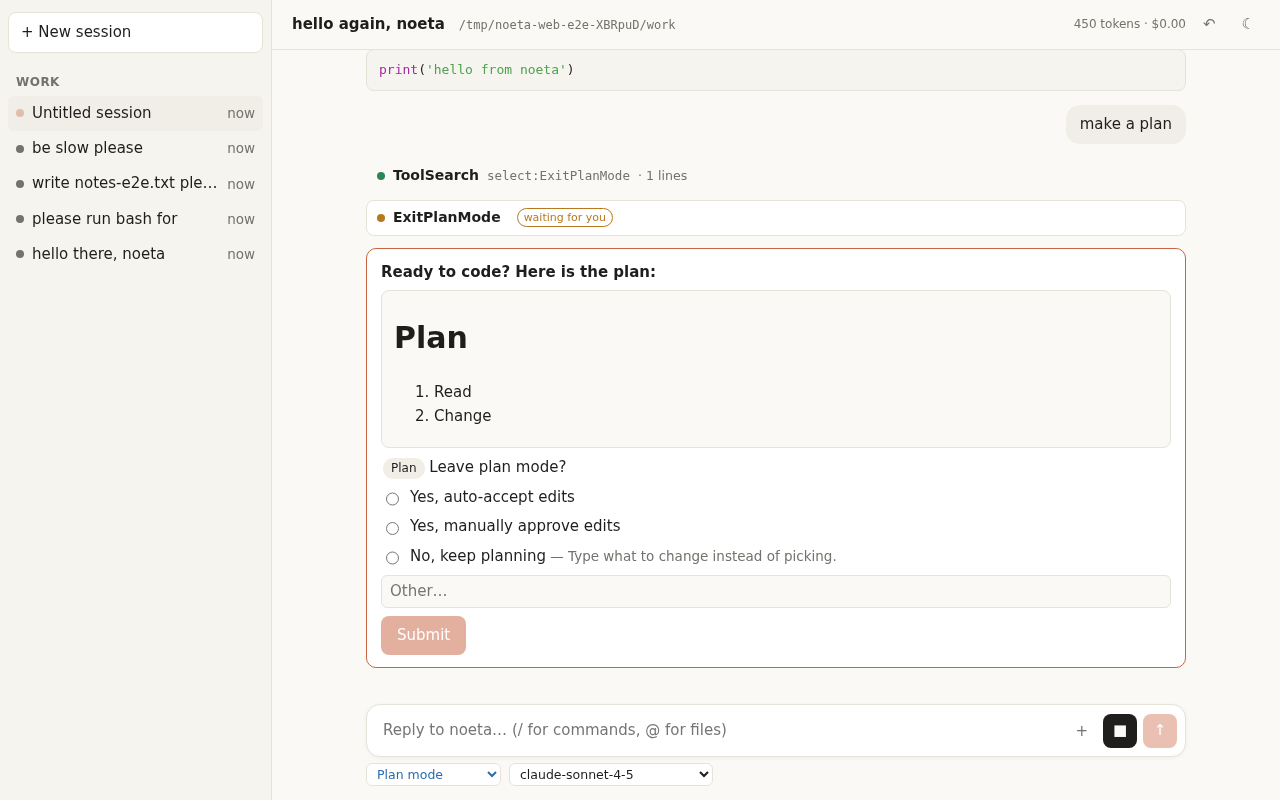
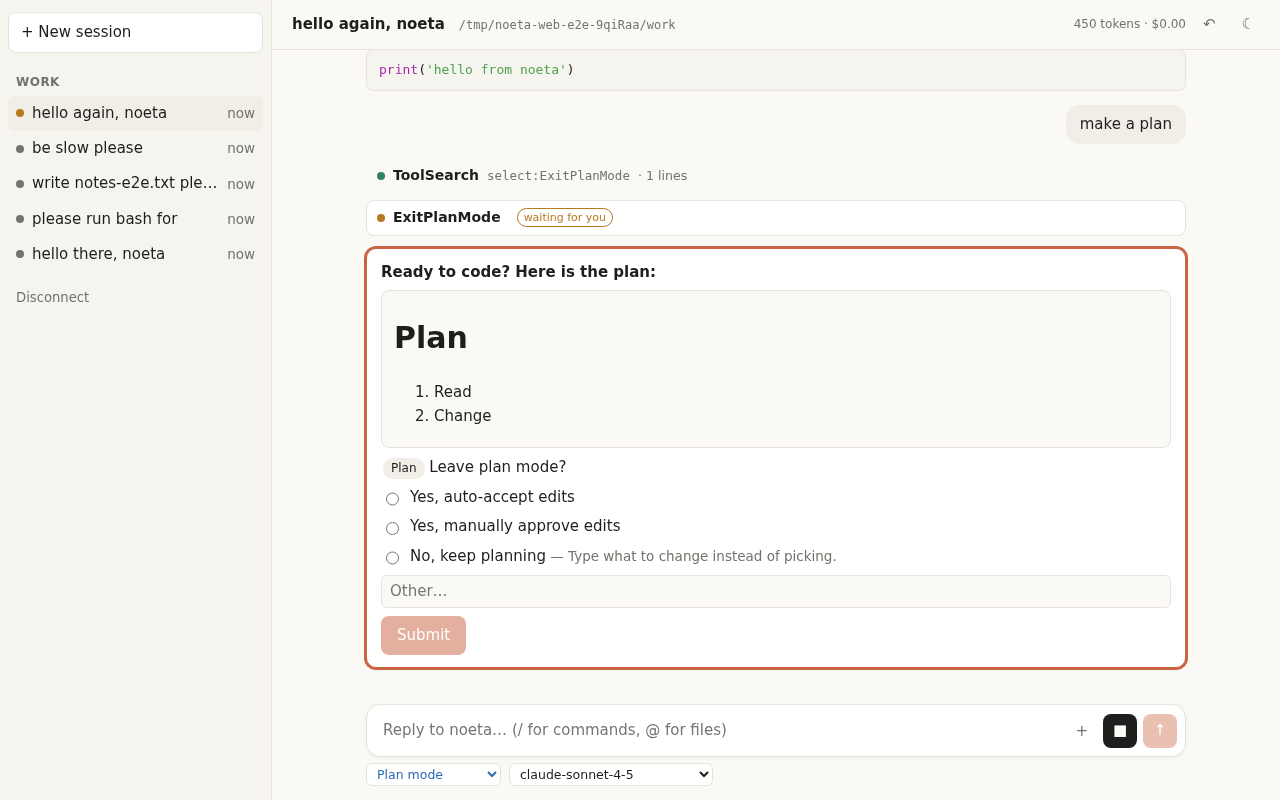
Screenshots of the reviewed web and desktop UI; spec progress
Also: the error page names Reload before the server's output; an App test
for Disconnect.

diff --git a/web/src/desktop.test.tsx b/web/src/desktop.test.tsx
@@ -98,6 +98,15 @@ describe("the app inside the desktop app", () => {
     expect(await screen.findByText("What should we work on?")).toBeInTheDocument();
   });
 
+  it("forgets the saved token on Disconnect (a browser only)", async () => {
+    vi.stubGlobal("fetch", vi.fn(async () => new Response("[]")));
+    localStorage.setItem("noeta.token", "saved");
+    render(<App />);
+    await userEvent.click(await screen.findByRole("button", { name: "Disconnect" }));
+    expect(await screen.findByRole("button", { name: "Connect" })).toBeInTheDocument();
+    expect(localStorage.getItem("noeta.token")).toBeNull();
+  });
+
   it("shows no folder picker in a browser", async () => {
     vi.stubGlobal("fetch", vi.fn(async () => new Response("[]")));
     window.NOETA_CONFIG = { server: "", token: "web" };

diff --git a/desktop/src/shell.ts b/desktop/src/shell.ts
@@ -113,7 +113,7 @@ main{max-width:640px;padding:32px}h1{font:400 28px ui-serif,Georgia,serif;margin
 p{color:var(--muted)}pre{background:var(--box);padding:12px 14px;border-radius:8px;white-space:pre-wrap;word-break:break-all;user-select:all}
 </style></head><body><main><h1>${escape(title)}</h1><p>${escape(message)}</p>
 ${command ? `<pre class="command">${escape(command)}</pre>` : ""}
-${output ? `<p>The server said:</p><pre class="output">${escape(output)}</pre>` : ""}
 <p class="retry">View &gt; Reload (Ctrl+R, ⌘R on macOS) starts it again.</p>
+${output ? `<p>The server said:</p><pre class="output">${escape(output)}</pre>` : ""}
 </main></body></html>`;
 }

diff --git a/docs/specs/2026-11-04-v1-finish.md b/docs/specs/2026-11-04-v1-finish.md
@@ -207,3 +207,17 @@ the maintainer's machine has.
   `make cluster` failed its retry checks; moved to `ToolFlags` here.
   Follow-up: `TaskState.history` out of the fold (snapshots grow with the task's life) needs
   its readers moved to log reads first; its own spec.
+- 2026-11-04 Front-end review fixes on `v1-finish-fe-fix` (web/, desktop/, host additive):
+  a first message is sent after an empty create (slash commands expand); a send receipt at or
+  below the highest taken inbox seq queues nothing; live sidebar row; stream retries reset on
+  each answered connection, an `end` error shows; answer failures on the card; links in a new
+  tab, remote images not loaded, Disconnect; `serve --web` sends a CSP and `X-Frame-Options`;
+  `/pending` cached per task by `last_seq` and polled only while waiting on a person or a
+  sub-agent runs; approval keys, Shift+Tab, Enter on the slash menu; rewind refills the
+  composer and hides the rewound session (browser-local), a task shows the conversations it
+  continues (`history_from`); an ended session is continued by sending (new task,
+  `history_from`, `continued_as: resume`); Edit/Write cards show the diff. Desktop: a server
+  that dies shows its output and Reload restarts it; only `/` stays in the window; permissions
+  notifications and clipboard writes only; restart over running sessions asks; roots
+  deduplicated, newest eight. Cut: the CSP's `connect-src` is `'self'` only, so a page served
+  by `noeta serve` cannot connect to another server.
